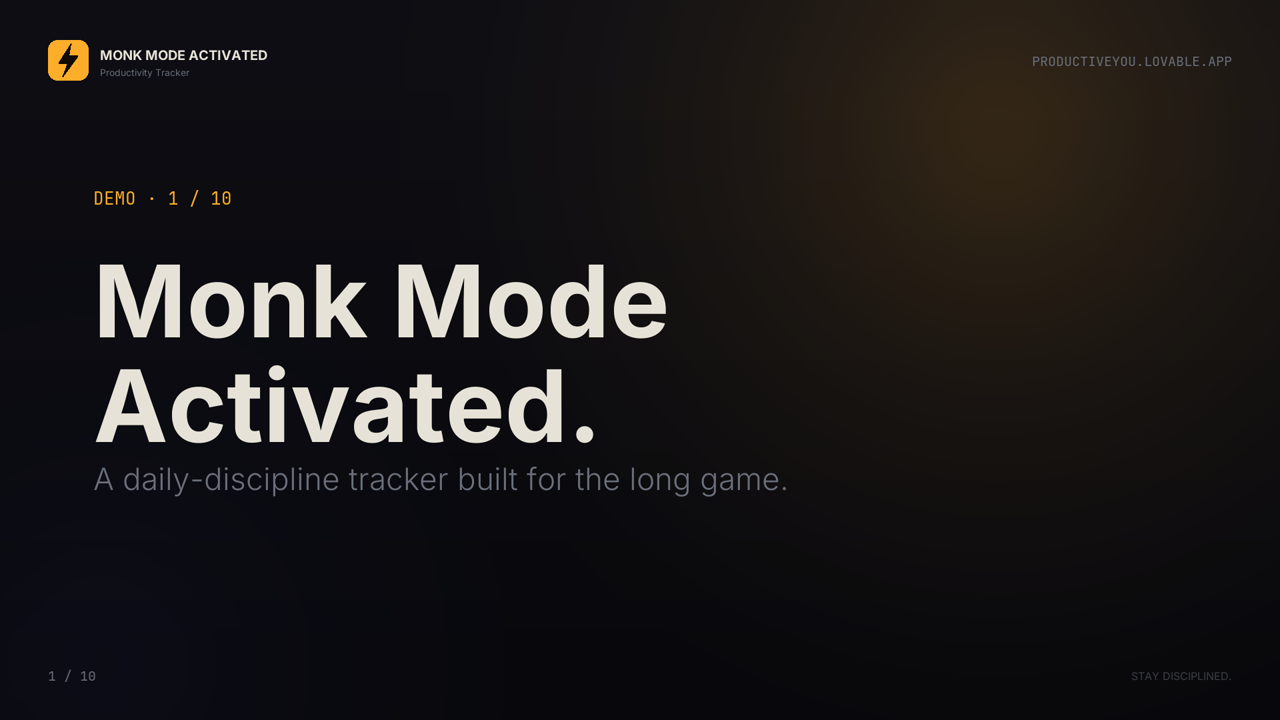
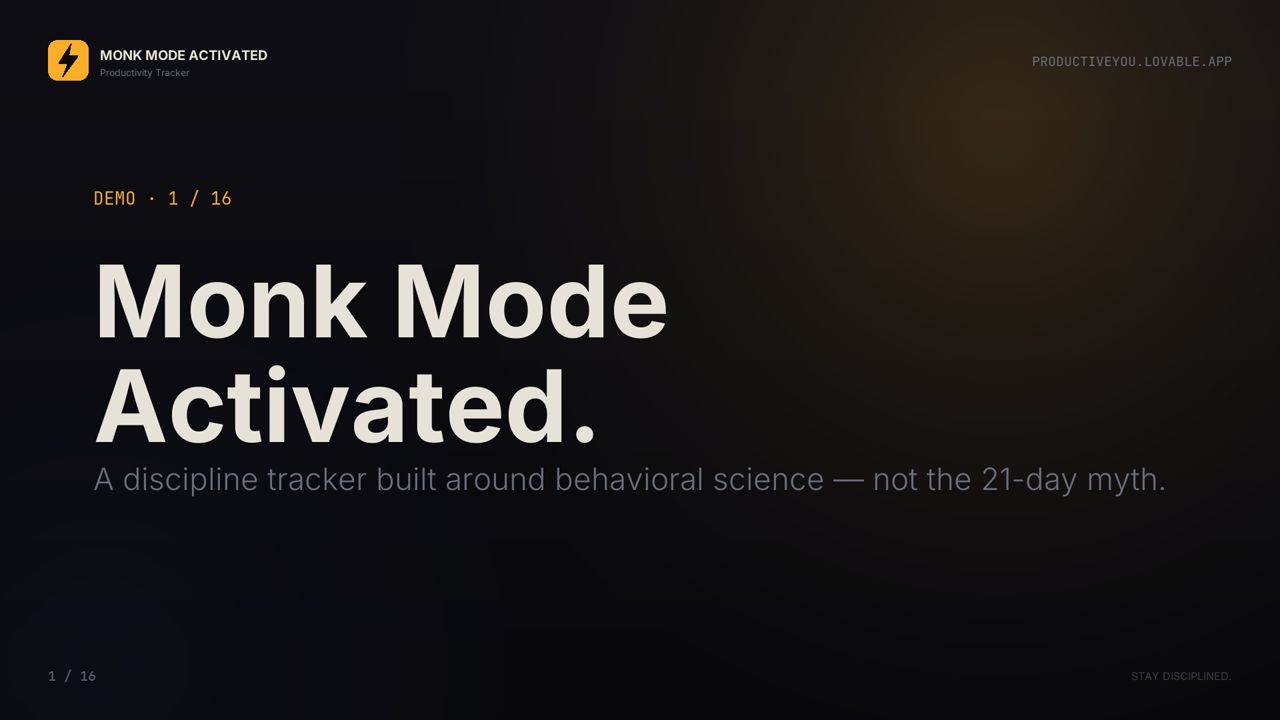
docs(demo): expand demo.mp4 from 10 to 16 slides covering every feature
New slides added:
- "Pick Your Non-Negotiables" — emphasizes per-user customization
- "Build Your Habit Stack" — emphasizes per-user customization
- "Choose Your Horizon" — 1m / 3m / 6m / 1y / 2y duration options
- "Daily Todo & Task Tracker" — auto-resets at midnight IST
- "History + Downloadable PDF Reports" — Summary/Detailed date-ranged export
- "Collectibles" — unlockable badges at day 7 / 30 / 66 / 100 / 365
- "Light Mode / Dark Mode / Smooth Switch" — 3-column compare slide
- "AES-256 backend" — stat slide highlighting at-rest + TLS-in-transit + RLS

Existing slides retained: Why, Journal, Streak Grid, Wrapped, Chrome
extension, 66-day behavioral-science backing, outro.

Demo total: 16 slides, ~190 seconds, 4.6 MB.

slidekit fix: _render_stat() now auto-shrinks oversized headlines (AES-256
was too wide at 280pt) and uses nominal font size for vertical spacing
so the caption no longer overlaps very large glyphs.

README + marketing/README updated with the new size, length, and a
collapsible per-slide breakdown.

Changed region(s): [[0.0938, 0.6417, 0.9062, 0.7028]]

diff --git a/marketing/scripts/build_demo.py b/marketing/scripts/build_demo.py
@@ -27,17 +27,18 @@ THUMB = ROOT / "thumbnails" / "demo.png"
 
 
 # ---- Script: each (slide, voiceover) pair -------------------------------
-N = 10
+N = 16
 SCRIPT: list[tuple[Slide, str]] = [
     (
         Slide(
             kind="title",
             kicker=f"DEMO · 1 / {N}",
             title="Monk Mode Activated.",
-            subtitle="A daily-discipline tracker built for the long game.",
+            subtitle="A discipline tracker built around behavioral science — not the 21-day myth.",
             page_label=f"1 / {N}",
         ),
-        "Meet Monk Mode Activated — a daily discipline tracker built for the long game.",
+        "Meet Monk Mode Activated — a discipline tracker built around behavioral science, "
+        "not the twenty-one day myth.",
     ),
     (
         Slide(
@@ -46,35 +47,83 @@ SCRIPT: list[tuple[Slide, str]] = [
             title="Most habit apps fail you by day 14.",
             subtitle="Streak resets. Guilt. Quit. Repeat.",
             bullets=[
-                "We treat habits like a 2-year project, not a 21-day stunt.",
-                "Non-negotiables sit above habits — what you refuse to do.",
+                "We treat habits as a multi-year project, not a 21-day stunt.",
+                "Non-negotiables sit above habits — your hard floor.",
                 "One missed day is logged, never punished.",
             ],
             page_label=f"2 / {N}",
         ),
         "Most habit apps fail you around day fourteen. Streak resets, guilt, quit, repeat. "
-        "Monk Mode treats discipline as a two-year project, not a twenty-one day stunt.",
+        "Monk Mode treats discipline as a multi-year project, not a twenty-one day stunt.",
     ),
     (
         Slide(
             kind="feature",
             kicker=f"FEATURE · 3 / {N}",
-            title="Non-Negotiables & Daily Habits",
-            subtitle="The two-layer system your future self will thank you for.",
+            title="Pick Your Non-Negotiables.",
+            subtitle="Your rules. Your hard floor. Nobody else's template.",
             bullets=[
-                "Non-Negotiables — your hard floor. No smoking. No doomscroll. No exceptions.",
-                "Daily Habits — your upward push. Workout, meditate, deep work, sleep.",
-                "Completion percentage updates the instant you check a box.",
+                "Fully customizable — no smoking, no doomscroll, no skipping workouts, no booze.",
+                "Sits above habits all day. The first thing you see, the last thing you check.",
+                "Every user picks their own list at onboarding — and edits it any time.",
             ],
             page_label=f"3 / {N}",
         ),
-        "At the core are non-negotiables — the things you simply refuse to do — and daily habits, "
-        "the things you commit to. Tap a box and your completion percentage updates instantly.",
+        "Pick your own non-negotiables. The rules you refuse to break — fully customizable per user. "
+        "No smoking, no doomscroll, no booze. Whatever your hard floor is, you define it.",
     ),
     (
         Slide(
             kind="feature",
             kicker=f"FEATURE · 4 / {N}",
+            title="Build Your Habit Stack.",
+            subtitle="Your upward push. The things you commit to, every single day.",
+            bullets=[
+                "Workout, meditate, deep work, cold shower, read 30 minutes — or anything you choose.",
+                "Each habit is one tap. Completion percentage updates instantly.",
+                "Stack changes? Edit anytime. The streak doesn't care, only the consistency does.",
+            ],
+            page_label=f"4 / {N}",
+        ),
+        "Build your own habit stack. Workout, meditate, deep work, cold shower — or whatever moves you "
+        "forward. One tap per habit. Completion percentage updates instantly.",
+    ),
+    (
+        Slide(
+            kind="feature",
+            kicker=f"FEATURE · 5 / {N}",
+            title="Choose Your Horizon.",
+            subtitle="From a 1-month sprint to a 2-year monk-mode mastery — your call.",
+            bullets=[
+                "1 month — quick sprint.    3 months — quarter challenge.",
+                "6 months — half-year commitment.    1 year — full transformation.",
+                "2 years — monk-mode mastery (default).",
+            ],
+            page_label=f"5 / {N}",
+        ),
+        "Choose how long you commit. One month sprint, three month challenge, six month commitment, "
+        "one year transformation, or two year monk-mode mastery. Your horizon, your call.",
+    ),
+    (
+        Slide(
+            kind="feature",
+            kicker=f"FEATURE · 6 / {N}",
+            title="Daily Todo & Task Tracker.",
+            subtitle="A clean list to attack the day — and a clean slate every midnight.",
+            bullets=[
+                "Add tasks in one keystroke. Check them off as you go.",
+                "Auto-resets at midnight IST so tomorrow is genuinely a new start.",
+                "Stays in sync across web and the Chrome extension.",
+            ],
+            page_label=f"6 / {N}",
+        ),
+        "A built-in todo list and task tracker for the day. Add fast, check off fast, "
+        "resets cleanly at midnight so tomorrow is a fresh start.",
+    ),
+    (
+        Slide(
+            kind="feature",
+            kicker=f"FEATURE · 7 / {N}",
             title="Journal. Text, Voice, Photos.",
             subtitle="Capture the day in whatever medium it actually deserves.",
             bullets=[
@@ -82,7 +131,7 @@ SCRIPT: list[tuple[Slide, str]] = [
                 "Voice notes for thoughts you can't type fast enough.",
                 "Photos with captions — your year as a private highlight reel.",
             ],
-            page_label=f"4 / {N}",
+            page_label=f"7 / {N}",
         ),
         "Journal your day in text, voice, or photos with captions. "
         "Whatever medium your day deserves — Monk Mode catches it.",
@@ -90,85 +139,128 @@ SCRIPT: list[tuple[Slide, str]] = [
     (
         Slide(
             kind="feature",
-            kicker=f"FEATURE · 5 / {N}",
-            title="The 2-Year Streak Tracker",
+            kicker=f"FEATURE · 8 / {N}",
+            title="The Multi-Year Streak Grid.",
             subtitle="A consistency grid that turns discipline into a visual identity.",
             bullets=[
                 "Every day is a tile, colored by completion percentage.",
-                "Browse history by month, week, or single day.",
+                "Watch your full horizon fill in, day by day.",
                 "Skip a day? Tomorrow is still part of the same streak.",
             ],
-            page_label=f"5 / {N}",
+            page_label=f"8 / {N}",
         ),
-        "The 2-year streak grid turns daily discipline into a visual identity. "
-        "Every tile is a day. Every color is a percentage. Skip a day — the streak survives.",
+        "The streak grid turns daily discipline into a visual identity. Every tile is a day. "
+        "Every color is a percentage. Skip a day — the streak survives.",
     ),
     (
         Slide(
             kind="feature",
-            kicker=f"FEATURE · 6 / {N}",
-            title="Wrapped — Your Year in Discipline",
+            kicker=f"FEATURE · 9 / {N}",
+            title="History + Downloadable PDF Reports.",
+            subtitle="Browse the past. Find the pattern. Act on it.",
+            bullets=[
+                "Open any past day and see exactly what you did and didn't.",
+                "Pick a date range — week, month, quarter, custom.",
+                "Export as a Summary or Detailed PDF report. Read it, share it, learn from it.",
+            ],
+            page_label=f"9 / {N}",
+        ),
+        "Open the History view to browse any past day in detail. Pick a date range. "
+        "Download a Summary or Detailed PDF report to analyze the patterns and act on them.",
+    ),
+    (
+        Slide(
+            kind="feature",
+            kicker=f"FEATURE · 10 / {N}",
+            title="Collectibles. Rewards For Every Step.",
+            subtitle="A reward layer that compounds with consistency.",
+            bullets=[
+                "Unlockable badges for streak milestones — day 7, day 30, day 66, day 100, day 365.",
+                "Quiet, classy rewards. No confetti spam. No dark patterns.",
+                "Shows up in Wrapped at year-end as your trophy case.",
+            ],
+            page_label=f"10 / {N}",
+        ),
+        "Collectibles reward you for every step you take. Unlockable badges at day seven, thirty, "
+        "sixty-six, one hundred, and three hundred sixty-five. Classy rewards. No confetti spam.",
+    ),
+    (
+        Slide(
+            kind="feature",
+            kicker=f"FEATURE · 11 / {N}",
+            title="Wrapped — Your Year In Discipline.",
             subtitle="A Spotify-style recap built around your habits, not your songs.",
             bullets=[
                 "Best month, longest streak, most-honored habit.",
                 "Shareable cards exported as PDF or image.",
-                "Unlock collectibles for streak milestones.",
+                "Your collectibles surface here as a year-end trophy case.",
             ],
-            page_label=f"6 / {N}",
+            page_label=f"11 / {N}",
         ),
-        "At year-end, Wrapped builds a Spotify-style recap of your discipline — "
-        "best month, longest streak, most-honored habit, and shareable cards.",
+        "At year-end, Wrapped builds a Spotify-style recap of your discipline. "
+        "Best month, longest streak, most-honored habit, and shareable cards.",
+    ),
+    (
+        Slide(
+            kind="compare",
+            kicker=f"FEATURE · 12 / {N}",
+            title="Light Mode. Dark Mode. Smooth Switch.",
+            columns=[
+                ("DARK", "The default. Warm-orange accents on near-black canvas. Calm at 5 AM, calm at midnight."),
+                ("LIGHT", "One tap to switch. Paper-warm background, same orange accents, same hierarchy."),
+                ("TRANSITION", "Smooth animated handover — no jarring flash. Theme preference syncs with your account."),
+            ],
+            page_label=f"12 / {N}",
+        ),
+        "Light mode and dark mode, both first-class. Smooth animated switch — no jarring flash. "
+        "Your theme preference travels with your account.",
+    ),
+    (
+        Slide(
+            kind="stat",
+            kicker=f"YOUR DATA · 13 / {N}",
+            stat="AES-256",
+            stat_caption="at rest. TLS in transit. Row-level security per user. Your discipline, encrypted end-to-database.",
+            attribution="Postgres + Supabase Auth + Storage. See README » Data & Security for the full schema.",
+            page_label=f"13 / {N}",
+        ),
+        "Log in with your account and everything syncs to an encrypted database. "
+        "AES two fifty six at rest. T L S in transit. Row level security so only you can read your rows. "
+        "Your discipline, encrypted end to database.",
     ),
     (
         Slide(
             kind="feature",
-            kicker=f"FEATURE · 7 / {N}",
-            title="Chrome Extension Companion",
-            subtitle="The browser is where your willpower goes to die. We turned it around.",
+            kicker=f"FEATURE · 14 / {N}",
+            title="Chrome Extension Companion.",
+            subtitle="The browser is where willpower goes to die. We turned it around.",
             bullets=[
                 "Toolbar popup to toggle today's habits in one click.",
                 "New-tab page shows your streak, today's progress, and a daily quote.",
                 "Smart nudges in morning, midday, and evening.",
             ],
-            page_label=f"7 / {N}",
+            page_label=f"14 / {N}",
         ),
-        "A companion Chrome extension hijacks your new tab page — turning the place "
-        "willpower normally dies into a live dashboard of your streak.",
-    ),
-    (
-        Slide(
-            kind="bullets",
-            kicker=f"UNDER THE HOOD · 8 / {N}",
-            title="Built modern, shipped fast.",
-            subtitle="A serverless React stack you can extend or fork.",
-            bullets=[
-                "Vite + React 18 + TypeScript + Tailwind + shadcn/ui",
-                "Supabase for auth, postgres, and storage",
-                "TanStack Query, react-hook-form + zod, recharts, jsPDF",
-                "Shipped on Lovable. Deploys on every push.",
-            ],
-            page_label=f"8 / {N}",
-        ),
-        "Under the hood: Vite, React eighteen, TypeScript, Tailwind, shadcn UI. "
-        "Supabase for auth, database and storage. Shipped on Lovable, deployed on every push.",
+        "A companion Chrome extension hijacks your new-tab page — turning the place willpower normally "
+        "dies into a live dashboard of your streak.",
     ),
     (
         Slide(
             kind="stat",
-            kicker=f"WHY IT WORKS · 9 / {N}",
+            kicker=f"WHY IT WORKS · 15 / {N}",
             stat="66 days",
-            stat_caption="is the average time to form a habit — not 21. We give you 730.",
+            stat_caption="is the average time to form a habit — not 21. We give you up to 730.",
             attribution="Source: Lally et al., UCL, European Journal of Social Psychology, 2010",
-            page_label=f"9 / {N}",
+            page_label=f"15 / {N}",
         ),
         "Behavioral science says it takes an average of sixty-six days to form a habit — not twenty-one. "
-        "Monk Mode gives you seven hundred and thirty.",
+        "Monk Mode gives you up to seven hundred and thirty.",
     ),
     (
         Slide(
             kind="outro",
             title="Start Day 1.",
-            subtitle="Open the app, pick your non-negotiables, and begin your 2-year streak.",
+            subtitle="Open the app, pick your non-negotiables, and begin your monk-mode streak.",
             page_label=f"{N} / {N}",
         ),
         "Open Productive You dot Lovable dot app, pick your non-negotiables, and start day one.",

diff --git a/marketing/scripts/slidekit.py b/marketing/scripts/slidekit.py
@@ -289,11 +289,20 @@ def _render_stat(img: Image.Image, draw: ImageDraw.ImageDraw, s: Slide) -> None:
     if s.kicker:
         k = mono(26)
         draw.text((x, 240), s.kicker.upper(), font=k, fill=ACCENT)
-    big = font(280, weight="bold")
-    bw, bh = _measure(draw, s.stat, big)
-    draw.text((x, 320), s.stat, font=big, fill=ACCENT)
+    # Auto-shrink the headline if it would run off the canvas — long strings
+    # like "AES-256" need a smaller size than short ones like "$1T".
+    headline = s.stat
+    big_size = 280
+    big = font(big_size, weight="bold")
+    while _measure(draw, headline, big)[0] > W - 280 and big_size > 120:
+        big_size -= 12
+        big = font(big_size, weight="bold")
+    # Use the nominal font size for vertical spacing — textbbox underestimates
+    # the visible height of huge glyphs by ~30%.
+    headline_y = 320
+    draw.text((x, headline_y), headline, font=big, fill=ACCENT)
     cap = font(46, weight="light")
-    y = 320 + bh + 30
+    y = headline_y + int(big.size * 1.05) + 24
     for line in _wrap(draw, s.stat_caption, cap, W - 280):
         draw.text((x, y), line, font=cap, fill=FG)
         y += int(cap.size * 1.2)

diff --git a/README.md b/README.md
@@ -21,17 +21,39 @@ A minimalist, dark-themed productivity tracker built with React + Vite + Supabas
 
 ## Demo video
 
-A 90-second narrated walkthrough of the product. Click the thumbnail to watch — or [download the MP4 directly](./marketing/demo.mp4).
+A ~3-minute narrated walkthrough of every feature. Click the thumbnail to watch — or [download the MP4 directly](./marketing/demo.mp4).
 
 <p align="center">
   <a href="./marketing/demo.mp4">
-    <img src="./marketing/thumbnails/demo.png" alt="Watch the Monk Mode Activated demo (90 seconds, MP4)" width="720" />
+    <img src="./marketing/thumbnails/demo.png" alt="Watch the Monk Mode Activated demo (~3 minutes, MP4)" width="720" />
   </a>
 </p>
 
 <p align="center">
-  <a href="./marketing/demo.mp4"><b>▶ marketing/demo.mp4</b></a> · ~104s · 1920×1080 · H.264 + AAC · 2.6 MB
+  <a href="./marketing/demo.mp4"><b>▶ marketing/demo.mp4</b></a> · ~190s · 1920×1080 · H.264 + AAC · 4.6 MB
 </p>
+
+<details>
+<summary>What the demo covers (16 slides)</summary>
+
+1. Title — Monk Mode Activated
+2. Why this exists — the 21-day myth, why habit apps fail at day 14
+3. **Pick Your Non-Negotiables** — fully customizable hard floor per user
+4. **Build Your Habit Stack** — fully customizable daily habits per user
+5. **Choose Your Horizon** — 1 month / 3 / 6 / 12 / 24 months
+6. **Daily Todo & Task Tracker** — auto-resets at midnight IST
+7. **Multi-modal Journal** — text, voice, captioned photos
+8. **Multi-Year Streak Grid** — visual identity over your full horizon
+9. **History + Downloadable PDF Reports** — Summary or Detailed reports by date range
+10. **Collectibles** — unlockable badges for milestones (day 7 / 30 / 66 / 100 / 365)
+11. **Wrapped** — Spotify-style year-end recap
+12. **Light + Dark theme** — smooth animated switch, preference syncs with account
+13. **AES-256 encrypted backend** — TLS in transit, row-level security per user
+14. **Chrome extension companion** — toolbar popup + new-tab dashboard + smart nudges
+15. **66 days behavioral-science backing** — Lally et al., UCL, 2010
+16. Outro — start day 1
+
+</details>
 
 <details>
 <summary>Inline player (works on GitHub)</summary>

diff --git a/marketing/README.md b/marketing/README.md
@@ -8,7 +8,7 @@ the pipeline has **no Mac-only dependencies**.
 
 | File | Purpose | Length / Size |
 | --- | --- | --- |
-| [`demo.mp4`](./demo.mp4) | ~100-second product demo for the README and landing page | ~104s · 2.6 MB |
+| [`demo.mp4`](./demo.mp4) | Full 16-slide product demo covering every feature (custom non-negotiables, custom habits, flexible duration, todo, journal, streak grid, history + PDF export, collectibles, Wrapped, light/dark, encrypted backend, Chrome extension) | ~190s · 4.6 MB |
 | [`investor-pitch.mp4`](./investor-pitch.mp4) | ~3-minute narrated investor walkthrough | ~182s · 4.5 MB |
 | [`pitch-deck.pdf`](./pitch-deck.pdf) | 15-slide investor deck (problem → solution → TAM → economics → ask) | 15 pages · 1.7 MB |
 | [`thumbnails/`](./thumbnails) | Static PNG cover frames + voiceover manifests | — |